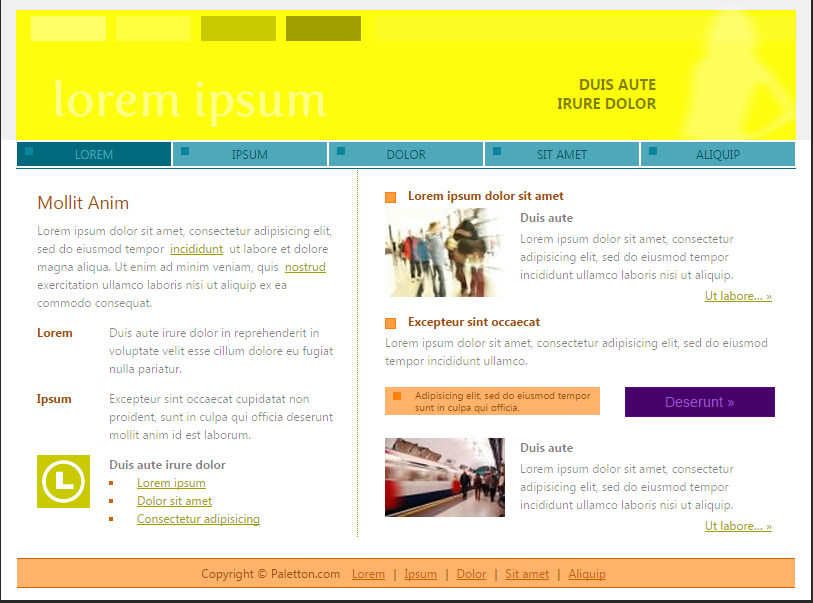
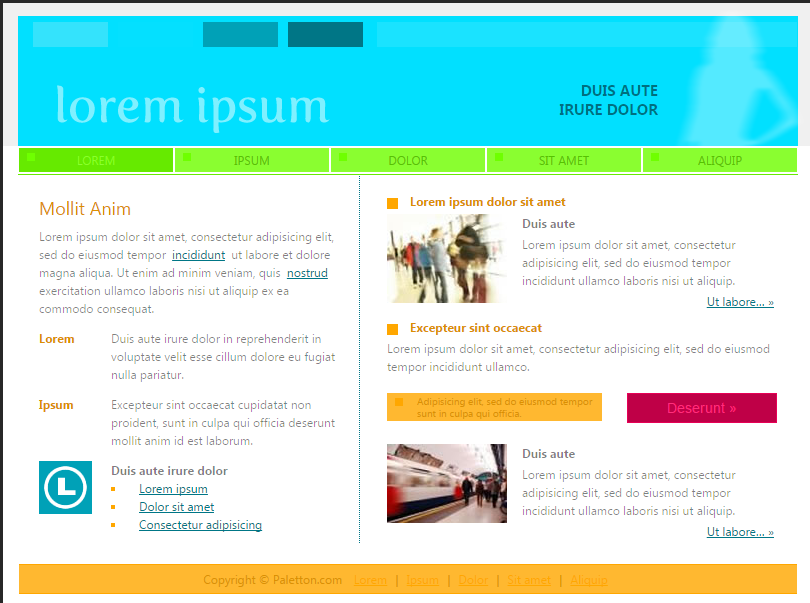
added L4 assignment to color.html

diff --git a/color.html b/color.html
@@ -28,11 +28,20 @@
        <p>In this chapter we are going to learn about ho to use colors effectively and approporiately.We are going to learn how to style our web pages.I hope I could show you some of the things I learned in this chapter on my web page.</p>
     <h2>Kindergarten Teacher</h2>
     <p>My Color Scheme</p>
-    <img src="http://api.paletton.com/img?size=25&uid=b2F2P2E0kllllaFw0g0qFqFg0w0aF"/>
+    <img src="http://api.paletton.com/img?size=25&uid=c3l5l2B0V0kWx%2B%2BpWZZyC%2BV%2BVDQZUrz"/>
     <p>
-      <a href= "images/Capture.png">Client 1:Page Similation </a>
+      <a href= "images/kindergarten_teacher.png">Client 1:Page Similation </a>
     </p>
-    <img src="images/Capture.PNG"/>
-    <p>Explanation:
+    <img src="images/kindergarten_teacher.PNG"/>
+    <p>
+      Explanation: I picked this color scheme for the kindergarten teacher because since the teacher is working with little children. The children are usually wild and out of control. These colors represent out of control for me.
+    </p>
+    <h2>Landscape Architecture</h2>
+    <p>My Color Scheme</p>
+      <img src="http://api.paletton.com/img?size=25&uid=b2A2U2K0kSbG0BZsH-EXAZ8CpTgrT"
+    </p>
+      <a href="images/landscape_architecture.png">Client 2:Page Similation</a>
+    <p>
+      Explanation:  
   </body>
 </html>

diff --git a/styles/style.css b/styles/style.css
@@ -1,3 +1,9 @@
+/*
+my color scheme
+#D3D3D3 LIGHT GRAY
+#2E40A5 Violet-Blue
+#00285E COOL BLACK
+*/
 body{
   font-size:1em;
   font-weight: normal;
@@ -15,12 +21,16 @@ h1{
   height: auto;
   border: 2px solid black;
   border-radius:2em;
-  background-color:#2E40A5;
+  background-color:#6BC1FF;
 }
 h2{
-  width: auto;
+  width: 200px;
   height: auto;
   text-align: left;
+  border: 2px solid black;
+  border-bottom-right-radius: 2em;
+  box-shadow: 10px 10px 5px;
+  background-color: #6BC1FF;
   }
 p{
   font-size: 1.8;
